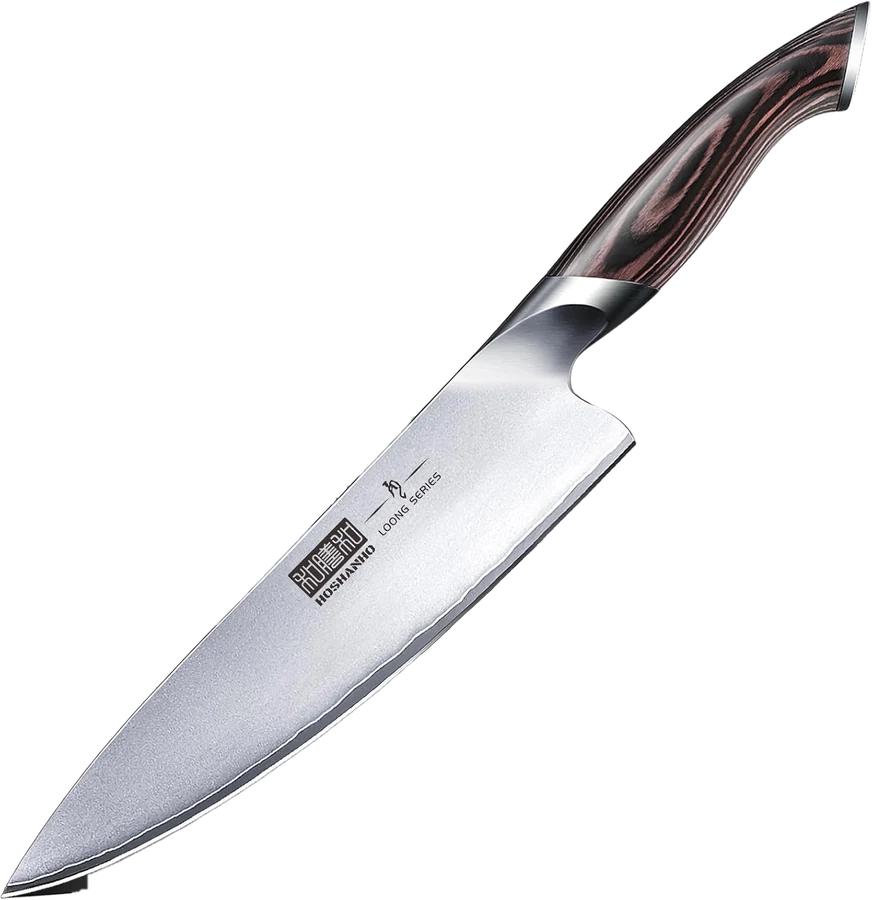
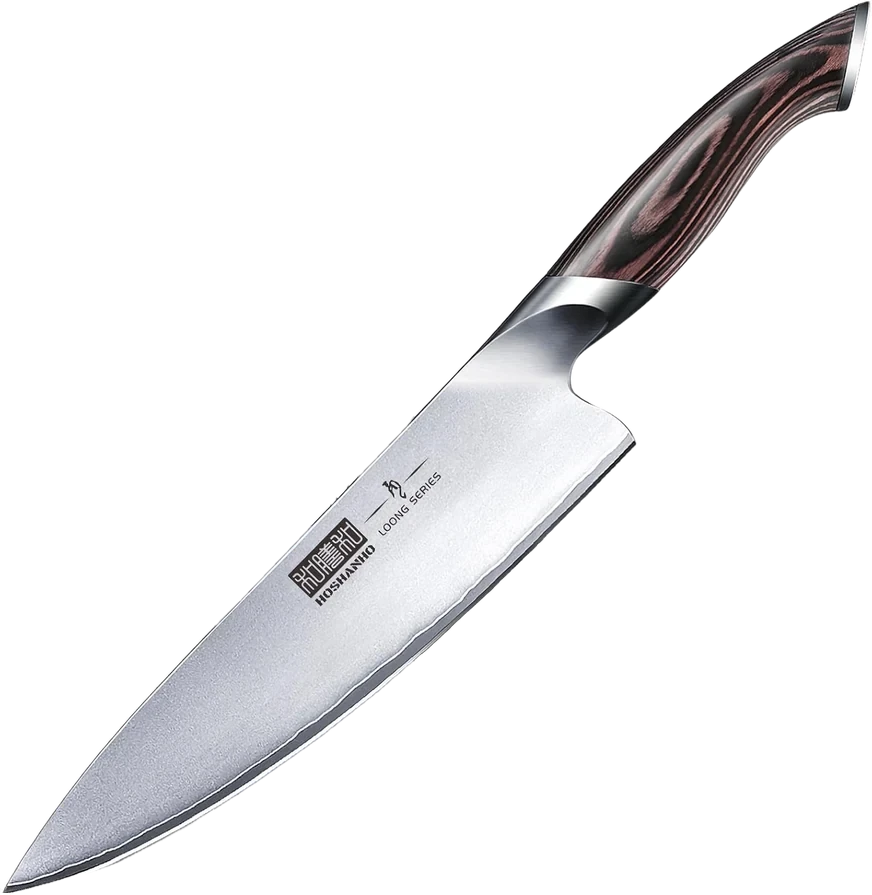
Clean up knife cutout at the blade tip
Claude-Session: https://claude.ai/code/session_01NF1M5n96EyKpDxGhXnv9Go

diff --git a/index.html b/index.html
@@ -279,7 +279,7 @@ h2{
       <li data-cat="coffee" data-tags="stainless" data-price="599" data-yours><a class="card" href="/picks/ninja-luxe-cafe-premier-es601/"><div class="art photo" aria-hidden="true"><img src="/images/ninja-luxe-cafe.webp" alt="Ninja Luxe Café Premier ES601" width="900" height="661" loading="lazy" decoding="async"></div><div class="info"><p class="meta">Ninja · Coffee</p><div class="row"><h3 class="name">Luxe Café Premier ES601</h3><p class="price">$599</p></div></div></a></li>
       <li data-cat="tools" data-tags="forever japan" data-price="100.98" data-yours><a class="card" href="/picks/toyo-st-350-steel-2-tier-tool-box/"><div class="art photo" aria-hidden="true"><img src="/images/toyo-st-350-toolbox.webp" alt="Toyo ST-350 Steel 2-Tier Tool Box" width="836" height="573" loading="lazy" decoding="async"></div><div class="info"><p class="meta">Toyo · Tools</p><div class="row"><h3 class="name"><span class="nb">ST-350</span> Steel <span class="nb">2-Tier</span> Tool Box</h3><p class="price">$100.98</p></div></div></a></li>
       <li data-cat="wear" data-tags="forever" data-price="19.95" data-yours><a class="card" href="/picks/darn-tough-run-no-show-tab-socks-ultra-lightweight/"><div class="art photo" aria-hidden="true"><img src="/images/darn-tough-run-no-show.webp" alt="Darn Tough Run No Show Tab Socks, Ultra-Lightweight" width="679" height="403" loading="lazy" decoding="async"></div><div class="info"><p class="meta">Darn Tough · Wear</p><div class="row"><h3 class="name">Run No Show Tab Socks, <span class="nb">Ultra-Lightweight</span></h3><p class="price">$19.95</p></div></div></a></li>
-      <li data-cat="kitchen" data-tags="" data-price="64.99" data-yours><a class="card" href="/picks/hoshanho-chefs-knife-8-inch/"><div class="art photo" aria-hidden="true"><img src="/images/hoshanho-chef-knife.webp" alt="Hoshanho Chef&#x27;s Knife, 8 inch" width="872" height="900" loading="lazy" decoding="async"></div><div class="info"><p class="meta">Hoshanho · Kitchen</p><div class="row"><h3 class="name">Chef&#x27;s Knife, 8 inch</h3><p class="price">$64.99</p></div></div></a></li>
+      <li data-cat="kitchen" data-tags="" data-price="64.99" data-yours><a class="card" href="/picks/hoshanho-chefs-knife-8-inch/"><div class="art photo" aria-hidden="true"><img src="/images/hoshanho-chef-knife.webp" alt="Hoshanho Chef&#x27;s Knife, 8 inch" width="872" height="895" loading="lazy" decoding="async"></div><div class="info"><p class="meta">Hoshanho · Kitchen</p><div class="row"><h3 class="name">Chef&#x27;s Knife, 8 inch</h3><p class="price">$64.99</p></div></div></a></li>
       <li data-cat="coffee" data-tags="forever japan stainless" data-price="39" data-yours><a class="card" href="/picks/kalita-wave-185-stainless-dripper/"><div class="art photo" aria-hidden="true"><img src="/images/kalita-wave-185.webp" alt="Kalita Wave 185 Stainless Dripper" width="900" height="569" loading="lazy" decoding="async"></div><div class="info"><p class="meta">Kalita · Coffee</p><div class="row"><h3 class="name">Wave 185 Stainless Dripper</h3><p class="price">$39</p></div></div></a></li>
       <li data-cat="tools" data-tags="forever japan" data-price="20.79" data-yours><a class="card" href="/picks/engineer-pz-58-screw-removal-pliers/"><div class="art photo" aria-hidden="true"><img src="/images/engineer-pz-58.webp" alt="Engineer PZ-58 Screw Removal Pliers" width="900" height="894" loading="lazy" decoding="async"></div><div class="info"><p class="meta">Engineer · Tools</p><div class="row"><h3 class="name"><span class="nb">PZ-58</span> Screw Removal Pliers</h3><p class="price">$20.79</p></div></div></a></li>
       <li data-cat="carry" data-tags="forever stainless" data-price="129.95" data-yours><a class="card" href="/picks/leatherman-wave-plus/"><div class="art photo" aria-hidden="true"><img src="/images/leatherman-wave-plus.webp" alt="Leatherman Wave Plus" width="895" height="900" loading="lazy" decoding="async"></div><div class="info"><p class="meta">Leatherman · Carry</p><div class="row"><h3 class="name">Wave Plus</h3><p class="price">$129.95</p></div></div></a></li>

diff --git a/picks/lodge-cast-iron-skillet-with-handle-holder/index.html b/picks/lodge-cast-iron-skillet-with-handle-holder/index.html
@@ -242,7 +242,7 @@ h2{
     </div>
   </article>
 
-  <section class="more" aria-labelledby="more-h"><h2 id="more-h">More worth owning</h2><ul class="grid"><li><a class="card" href="/picks/hoshanho-chefs-knife-8-inch/"><div class="art photo" aria-hidden="true"><img src="/images/hoshanho-chef-knife.webp" alt="Hoshanho Chef&#x27;s Knife, 8 inch" width="872" height="900" loading="lazy" decoding="async"></div><div class="info"><p class="meta">Hoshanho · Kitchen</p><div class="row"><h3 class="name">Chef&#x27;s Knife, 8 inch</h3><p class="price">$64.99</p></div></div></a></li><li><a class="card" href="/picks/green-bell-takumi-no-waza-nail-clipper-g-1205/"><div class="art photo" aria-hidden="true"><img src="/images/green-bell-g-1205.webp" alt="Green Bell Takumi no Waza Nail Clipper G-1205" width="206" height="900" loading="lazy" decoding="async"></div><div class="info"><p class="meta">Green Bell · Grooming</p><div class="row"><h3 class="name">Takumi no Waza Nail Clipper <span class="nb">G-1205</span></h3><p class="price">$17</p></div></div></a></li><li><a class="card" href="/picks/snow-peak-ti-single-600-cup/"><div class="art photo" aria-hidden="true"><img src="/images/snow-peak-ti-single.webp" alt="Snow Peak Ti-Single 600 Cup" width="900" height="761" loading="lazy" decoding="async"></div><div class="info"><p class="meta">Snow Peak · Carry</p><div class="row"><h3 class="name"><span class="nb">Ti-Single</span> 600 Cup</h3><p class="price">$29.95</p></div></div></a></li><li><a class="card" href="/picks/fellow-stagg-ekg-pro-electric-kettle/"><div class="art photo" aria-hidden="true"><img src="/images/fellow-stagg-ekg-pro.webp" alt="Fellow Stagg EKG Pro Electric Kettle" width="900" height="668" loading="lazy" decoding="async"></div><div class="info"><p class="meta">Fellow · Coffee</p><div class="row"><h3 class="name">Stagg EKG Pro Electric Kettle</h3><p class="price">$199.95</p></div></div></a></li></ul></section>
+  <section class="more" aria-labelledby="more-h"><h2 id="more-h">More worth owning</h2><ul class="grid"><li><a class="card" href="/picks/hoshanho-chefs-knife-8-inch/"><div class="art photo" aria-hidden="true"><img src="/images/hoshanho-chef-knife.webp" alt="Hoshanho Chef&#x27;s Knife, 8 inch" width="872" height="895" loading="lazy" decoding="async"></div><div class="info"><p class="meta">Hoshanho · Kitchen</p><div class="row"><h3 class="name">Chef&#x27;s Knife, 8 inch</h3><p class="price">$64.99</p></div></div></a></li><li><a class="card" href="/picks/green-bell-takumi-no-waza-nail-clipper-g-1205/"><div class="art photo" aria-hidden="true"><img src="/images/green-bell-g-1205.webp" alt="Green Bell Takumi no Waza Nail Clipper G-1205" width="206" height="900" loading="lazy" decoding="async"></div><div class="info"><p class="meta">Green Bell · Grooming</p><div class="row"><h3 class="name">Takumi no Waza Nail Clipper <span class="nb">G-1205</span></h3><p class="price">$17</p></div></div></a></li><li><a class="card" href="/picks/snow-peak-ti-single-600-cup/"><div class="art photo" aria-hidden="true"><img src="/images/snow-peak-ti-single.webp" alt="Snow Peak Ti-Single 600 Cup" width="900" height="761" loading="lazy" decoding="async"></div><div class="info"><p class="meta">Snow Peak · Carry</p><div class="row"><h3 class="name"><span class="nb">Ti-Single</span> 600 Cup</h3><p class="price">$29.95</p></div></div></a></li><li><a class="card" href="/picks/fellow-stagg-ekg-pro-electric-kettle/"><div class="art photo" aria-hidden="true"><img src="/images/fellow-stagg-ekg-pro.webp" alt="Fellow Stagg EKG Pro Electric Kettle" width="900" height="668" loading="lazy" decoding="async"></div><div class="info"><p class="meta">Fellow · Coffee</p><div class="row"><h3 class="name">Stagg EKG Pro Electric Kettle</h3><p class="price">$199.95</p></div></div></a></li></ul></section>
 </main>
 
 <footer class="wrap foot">

diff --git a/picks/hoshanho-chefs-knife-8-inch/index.html b/picks/hoshanho-chefs-knife-8-inch/index.html
@@ -232,7 +232,7 @@ h2{
 <main class="wrap">
   <nav class="crumbs" aria-label="Breadcrumb"><a href="/">Worth Owning</a> / <a href="/#kitchen">Kitchen</a> / <span aria-current="page">Chef&#x27;s Knife, 8 inch</span></nav>
   <article class="pick">
-    <div class="art photo pick-art" aria-hidden="true"><img src="/images/hoshanho-chef-knife.webp" alt="Hoshanho Chef&#x27;s Knife, 8 inch" width="872" height="900" fetchpriority="high" decoding="async"></div>
+    <div class="art photo pick-art" aria-hidden="true"><img src="/images/hoshanho-chef-knife.webp" alt="Hoshanho Chef&#x27;s Knife, 8 inch" width="872" height="895" fetchpriority="high" decoding="async"></div>
     <div>
       <p class="meta">Hoshanho</p>
       <h1>Chef&#x27;s Knife, 8 inch</h1>
